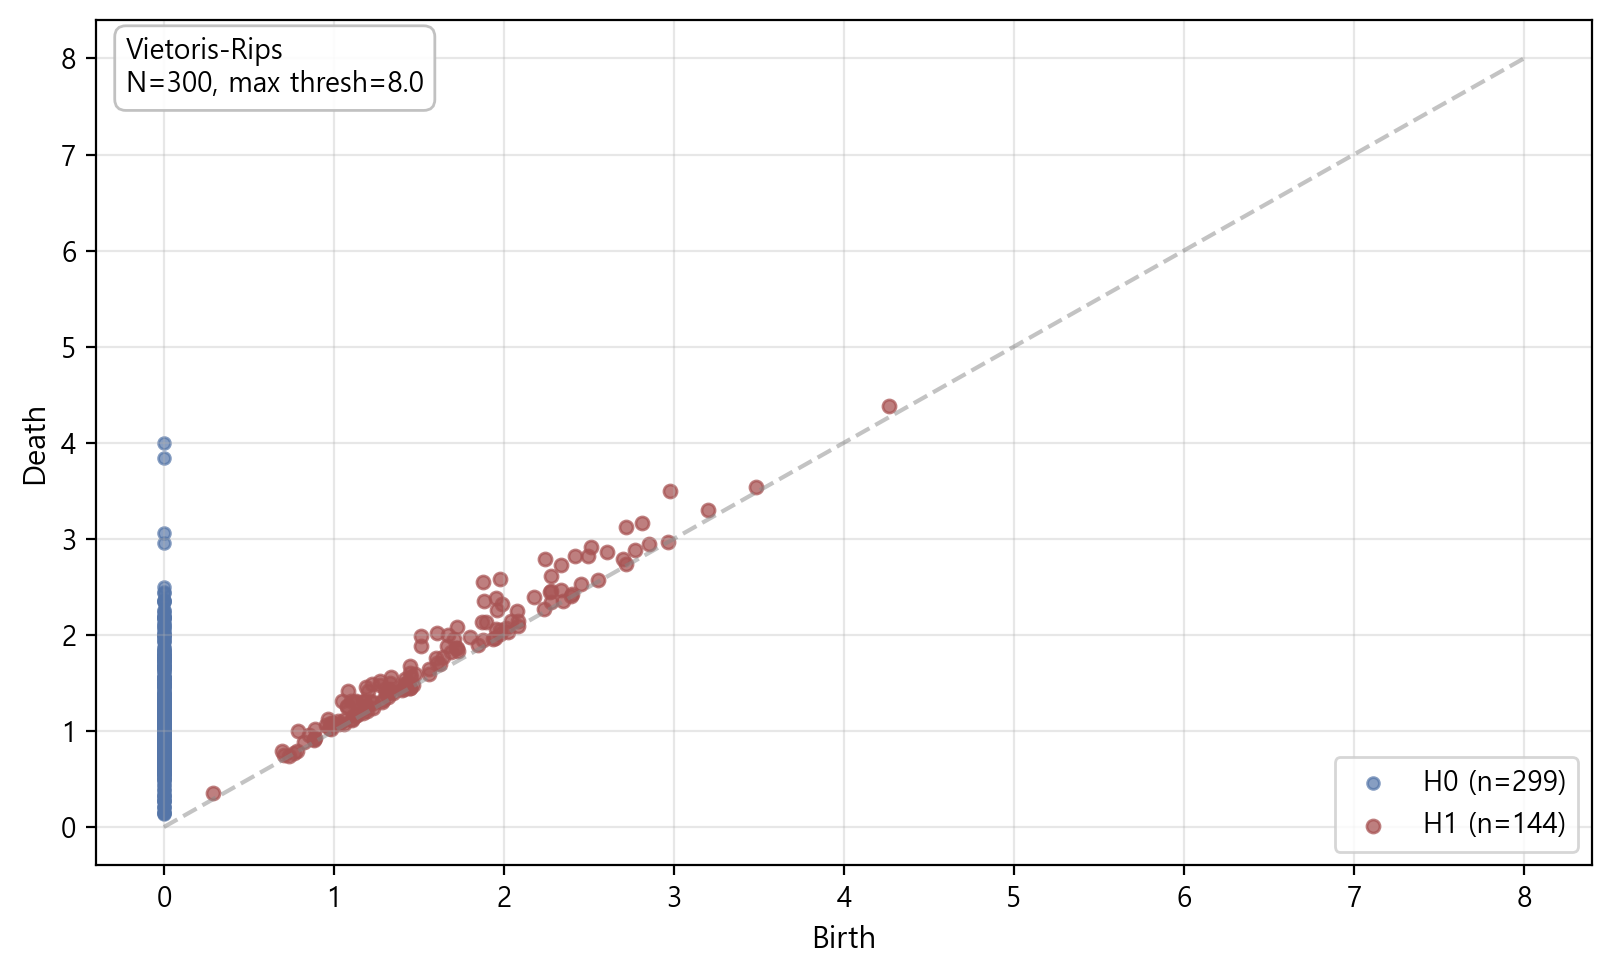
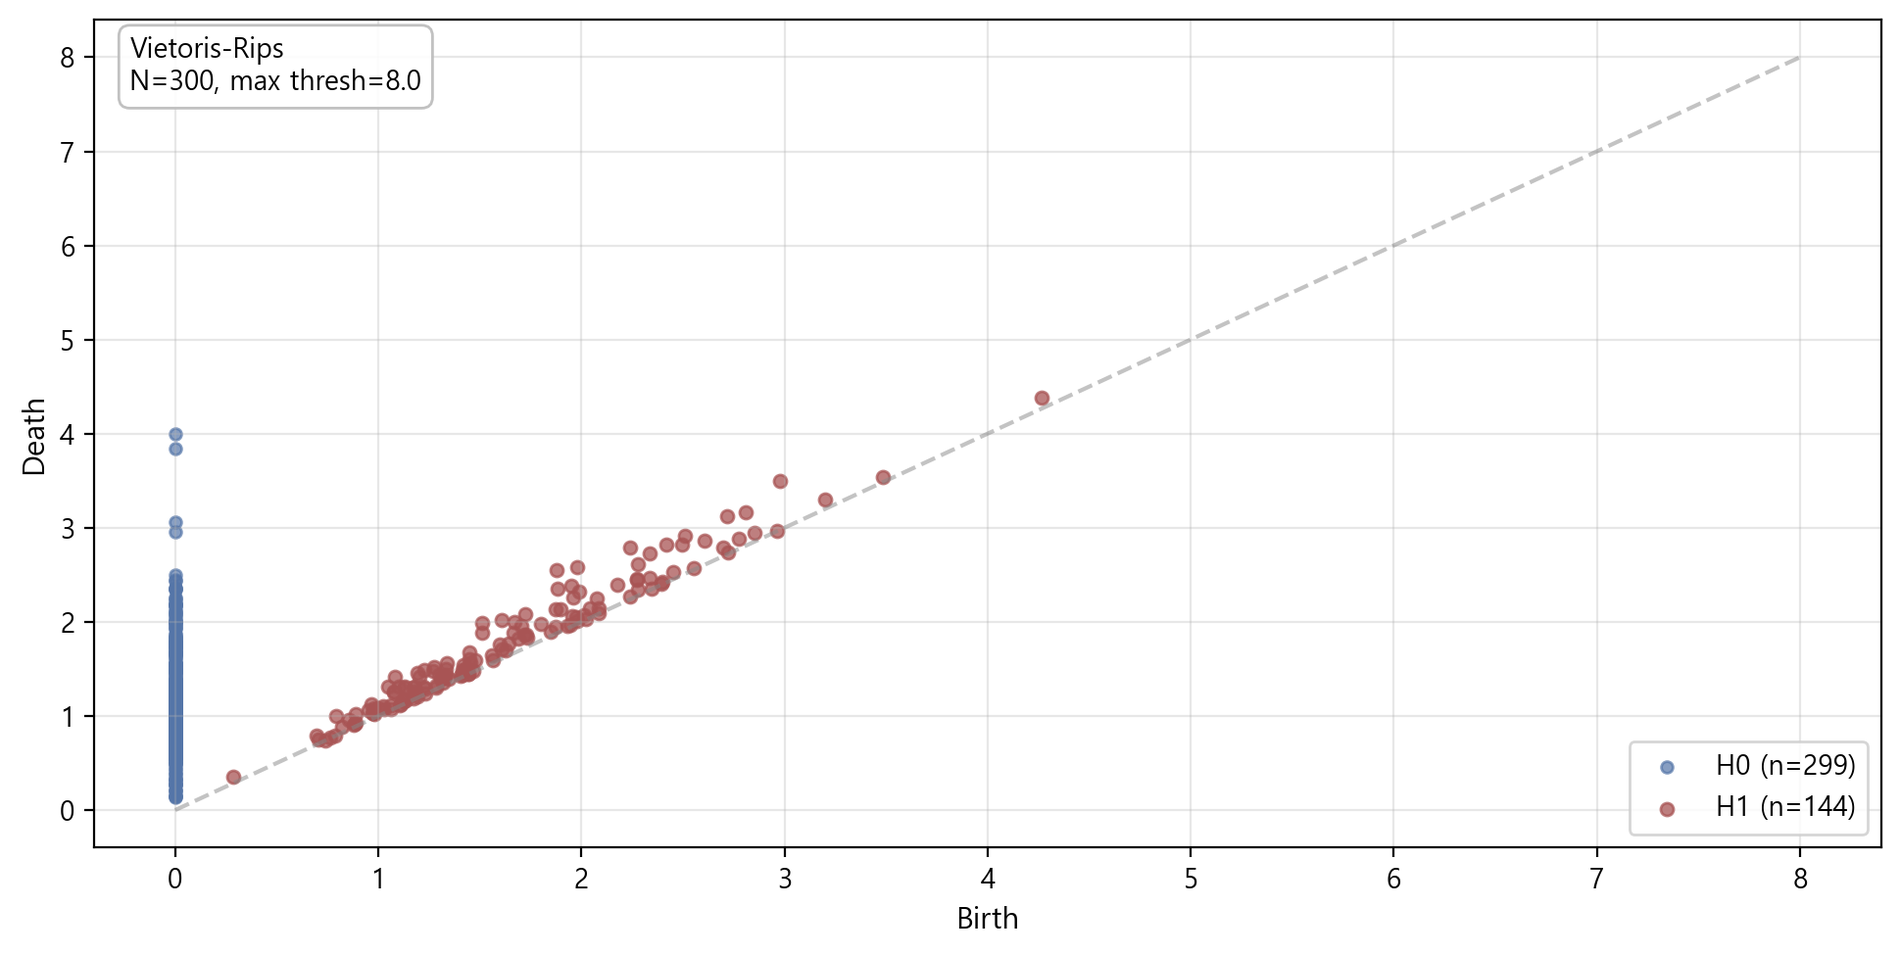
2차 차트 widening: ratio 1.4 미만 차트 추가 확장
1차 widening 후에도 ratio 1.5~1.7 그친 차트들을 더 공격적으로 확장 —
사용자 피드백 'h3_umap만 뚜렷하게 변하고 나머지는 약함' 반영.

| 파일 | 1차 후 | 2차 후 |
|---|---|---|
| h10_cpi_control | 1.12 | 1.89 |
| h14_quadrant | 1.56 | 1.91 |
| h22_rdd_field | 1.65 | 1.99 |
| h24_stl_bars/scatter | 1.65 | 1.99 |
| h9_pd | 1.65 | 1.99 |
| h28_scaleogram | 1.30 | 1.77 |
| h4_mapper_amp | 1.48 | 1.76 |
| h4_mapper_cluster | 1.57 | 1.89 |
| h9_barcode/bootstrap | 1.51 | 2.13 |
| h6_robustness | 1.61 | 1.83 |
| h6_lag_amp | 1.70 | 1.93 |
| h27_phase | 1.16 | 1.50 (polar 한계) |

9개 redo_fig*.py 스크립트의 figsize WIDTH 추가 ×1.2~1.4 확대.

diff --git a/scripts/redo_fig03_persistence.py b/scripts/redo_fig03_persistence.py
@@ -88,7 +88,7 @@ h0 = ph[(ph['dim'] == 0) & ph['death'].apply(is_finite)]
 h1 = ph[(ph['dim'] == 1) & ph['death'].apply(is_finite)]
 
 # ── 3A: Persistence Diagram
-fig, ax = plt.subplots(figsize=(8.2, 5))
+fig, ax = plt.subplots(figsize=(9.84, 5))
 ax.scatter(h0['birth'], h0['death'], s=18, c='#5475a8',
            label=f'H0 (n={len(h0)})', alpha=0.7)
 ax.scatter(h1['birth'], h1['death'], s=22, c='#a85454',
@@ -108,7 +108,7 @@ plt.tight_layout()
 save_resize(fig, 'h9_pd.png')
 
 # ── 3B: H1 Barcode top 30
-fig, ax = plt.subplots(figsize=(6.3, 4.2))
+fig, ax = plt.subplots(figsize=(8.82, 4.2))
 h1_sorted = h1.sort_values('persistence', ascending=False).reset_index(drop=True)
 n_top = min(30, len(h1_sorted))
 for i in range(n_top):
@@ -129,7 +129,7 @@ plt.tight_layout()
 save_resize(fig, 'h9_barcode.png')
 
 # ── 3C: Bootstrap H1 max histogram
-fig, ax = plt.subplots(figsize=(6.3, 4.2))
+fig, ax = plt.subplots(figsize=(8.82, 4.2))
 ax.hist(boot, bins=15, color='#a85454', alpha=0.78, edgecolor='black')
 ax.axvline(h1m, color='black', lw=2, label=f'median = {h1m:.2f}')
 ax.axvspan(h1lo, h1hi, alpha=0.15, color='black',

diff --git a/scripts/redo_fig04_robustness.py b/scripts/redo_fig04_robustness.py
@@ -65,7 +65,7 @@ target_keys = ['사회복지', '복지', 'wealth']
 # ============================================================
 # Figure 1: h6_robustness.png — (a) FE 회귀 + (b) 14분야 Permutation forest
 # ============================================================
-fig, axes = plt.subplots(1, 2, figsize=(6.3, 4.2),
+fig, axes = plt.subplots(1, 2, figsize=(7.56, 4.2),
                          gridspec_kw={'width_ratios': [1, 1.4]})
 
 # ── (a) FE 회귀 (제목 단축)
@@ -141,7 +141,7 @@ save_resize(fig, 'h6_robustness.png')
 # Figure 2: h6_lag_amp.png — (c) Lag/Lead heatmap + (d) amp_cv 수평막대
 # (원본 source: scripts/h6_robustness.py Figure C, A2)
 # ============================================================
-fig, axes = plt.subplots(1, 2, figsize=(6.3, 4.2))
+fig, axes = plt.subplots(1, 2, figsize=(7.56, 4.2))
 
 # ── (c) Lag/Lead heatmap (분야 × lag, color = corr_diff)
 ax = axes[0]

diff --git a/scripts/redo_fig02_mapper.py b/scripts/redo_fig02_mapper.py
@@ -112,7 +112,7 @@ def save_resize(fig, fname):
         print(f'  preview: {fname} {w}x{h}')
 
 # ── 그림 2A: amp_12m 색상
-fig, ax = plt.subplots(figsize=(7.3, 4.7))
+fig, ax = plt.subplots(figsize=(8.76, 4.7))
 colors = np.array([node_meta[n]['mean_amp_12m'] for n in G.nodes()])
 nx.draw_networkx_edges(G, pos, alpha=0.3, width=0.6, ax=ax)
 sc = nx.draw_networkx_nodes(
@@ -136,7 +136,7 @@ plt.tight_layout()
 save_resize(fig, 'h4_mapper_amp.png')
 
 # ── 그림 2B: H3 클러스터 색상 + 분기점 분야 라벨
-fig, ax = plt.subplots(figsize=(7.3, 4.7))
+fig, ax = plt.subplots(figsize=(8.76, 4.7))
 palette = plt.get_cmap('tab10')
 clu_colors = [palette(node_meta[n]['cluster_dom'] % 10) for n in G.nodes()]
 nx.draw_networkx_edges(G, pos, alpha=0.3, width=0.6, ax=ax)

diff --git a/scripts/redo_fig09_stl.py b/scripts/redo_fig09_stl.py
@@ -72,7 +72,7 @@ def save_resize(fig, fname):
         print(f'  {fname:28s} {w}x{h}')
 
 # ── (a) 분야별 STL vs FFT grouped barh — 부호 반전 행 배경 강조 + 화살표
-fig, ax = plt.subplots(figsize=(8.2, 5.0))
+fig, ax = plt.subplots(figsize=(9.84, 5.0))
 y = np.arange(len(df))
 
 # 부호 반전 분야 행 배경
@@ -107,7 +107,7 @@ plt.tight_layout()
 save_resize(fig, 'h24_stl_bars.png')
 
 # ── (b) STL vs FFT 산점도 — 2·4 사분면(부호 반전 영역) 배경 강조
-fig, ax = plt.subplots(figsize=(8.2, 5.0))
+fig, ax = plt.subplots(figsize=(9.84, 5.0))
 # 2사분면 (FFT < 0, STL > 0)
 ax.fill_between([-1.05, 0], 0, 1.05, color='#ffe0e0', alpha=0.55, zorder=0)
 # 4사분면 (FFT > 0, STL < 0)

diff --git a/scripts/redo_fig08_field.py b/scripts/redo_fig08_field.py
@@ -67,7 +67,7 @@ estimates = pd.read_csv(os.path.join(RES, 'H22_rdd_estimates.csv'))
 beta_total = float(estimates[estimates['bw'] == 1]['beta'].values[0])
 mult_total = float(estimates[estimates['bw'] == 1]['mult'].values[0])
 
-fig, ax = plt.subplots(figsize=(8.2, 5.0))
+fig, ax = plt.subplots(figsize=(9.84, 5.0))
 
 ys = np.arange(len(df))
 colors = ['#a85454' if p < 0.05 else '#aaaaaa' for p in df['pval']]

diff --git a/scripts/redo_fig14_scaleogram.py b/scripts/redo_fig14_scaleogram.py
@@ -91,7 +91,7 @@ freqs = pywt.scale2frequency(wavelet, scales)
 periods = 1 / freqs
 
 # ── Figure
-fig, axes = plt.subplots(2, 2, figsize=(8.2, 6.0), sharex=True, sharey=True)
+fig, axes = plt.subplots(2, 2, figsize=(11.48, 6.0), sharex=True, sharey=True)
 arch_order = ['C0_personnel', 'C1_direct_invest',
               'C2_chooyeon', 'C3_normal']
 

diff --git a/scripts/redo_fig05_cpi.py b/scripts/redo_fig05_cpi.py
@@ -52,7 +52,7 @@ SHORT = {
 df = df.copy()
 df['fld_short'] = df['fld'].map(lambda x: SHORT.get(x, x))
 
-fig, axes = plt.subplots(2, 1, figsize=(9.5, 8.5),
+fig, axes = plt.subplots(2, 1, figsize=(15.96, 8.5),
                          gridspec_kw={'height_ratios': [1.4, 1]})
 
 # ── (a) 산포도 raw vs CPI-residual + 분야 라벨 (adjustText)

diff --git a/scripts/redo_fig12_phase.py b/scripts/redo_fig12_phase.py
@@ -43,7 +43,7 @@ ARCH_COLOR = {'C0_personnel': '#4C72B0',
               'C2_chooyeon': '#55A868',
               'C3_normal': '#C44E52'}
 
-fig, axes = plt.subplots(2, 2, figsize=(9.5, 6.3),
+fig, axes = plt.subplots(2, 2, figsize=(16.0, 6.3),
                          subplot_kw={'projection': 'polar'})
 
 for ax, arch in zip(axes.flat,

diff --git a/scripts/redo_fig10_quadrant.py b/scripts/redo_fig10_quadrant.py
@@ -140,7 +140,7 @@ def quadrant(row):
 filt['quadrant'] = filt.apply(quadrant, axis=1)
 
 # ── Figure
-fig, ax = plt.subplots(figsize=(8.2, 5.2))
+fig, ax = plt.subplots(figsize=(9.84, 5.2))
 
 # 4분면 배경
 x1 = max(merged['exposure_score'].max() + 0.05, 0.85)
